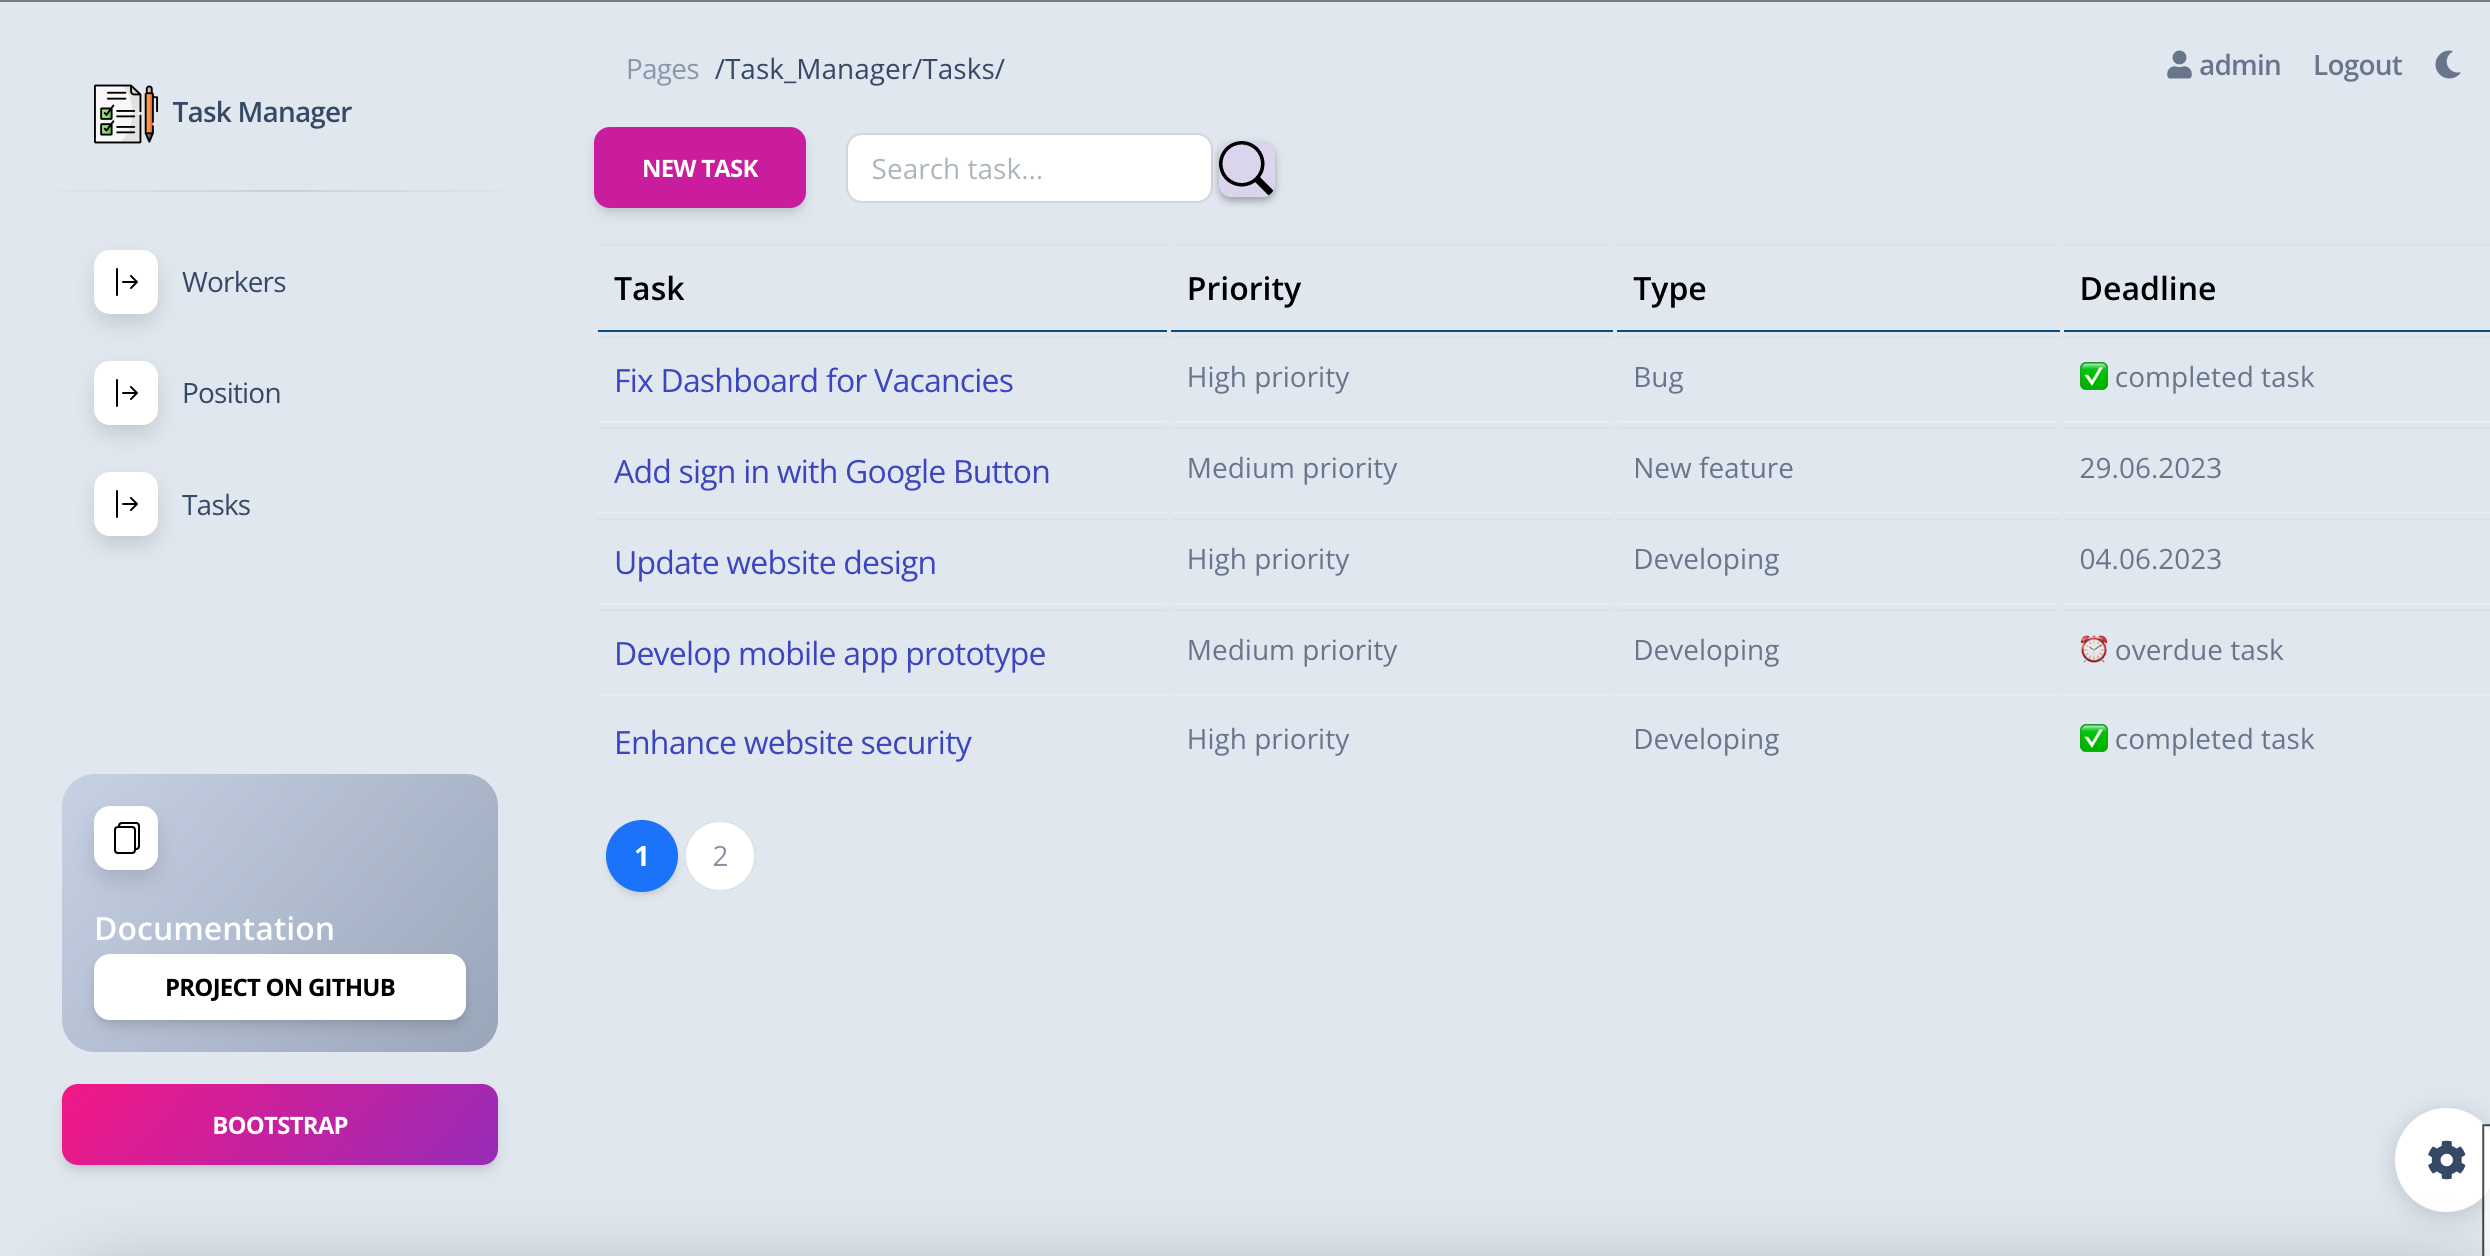
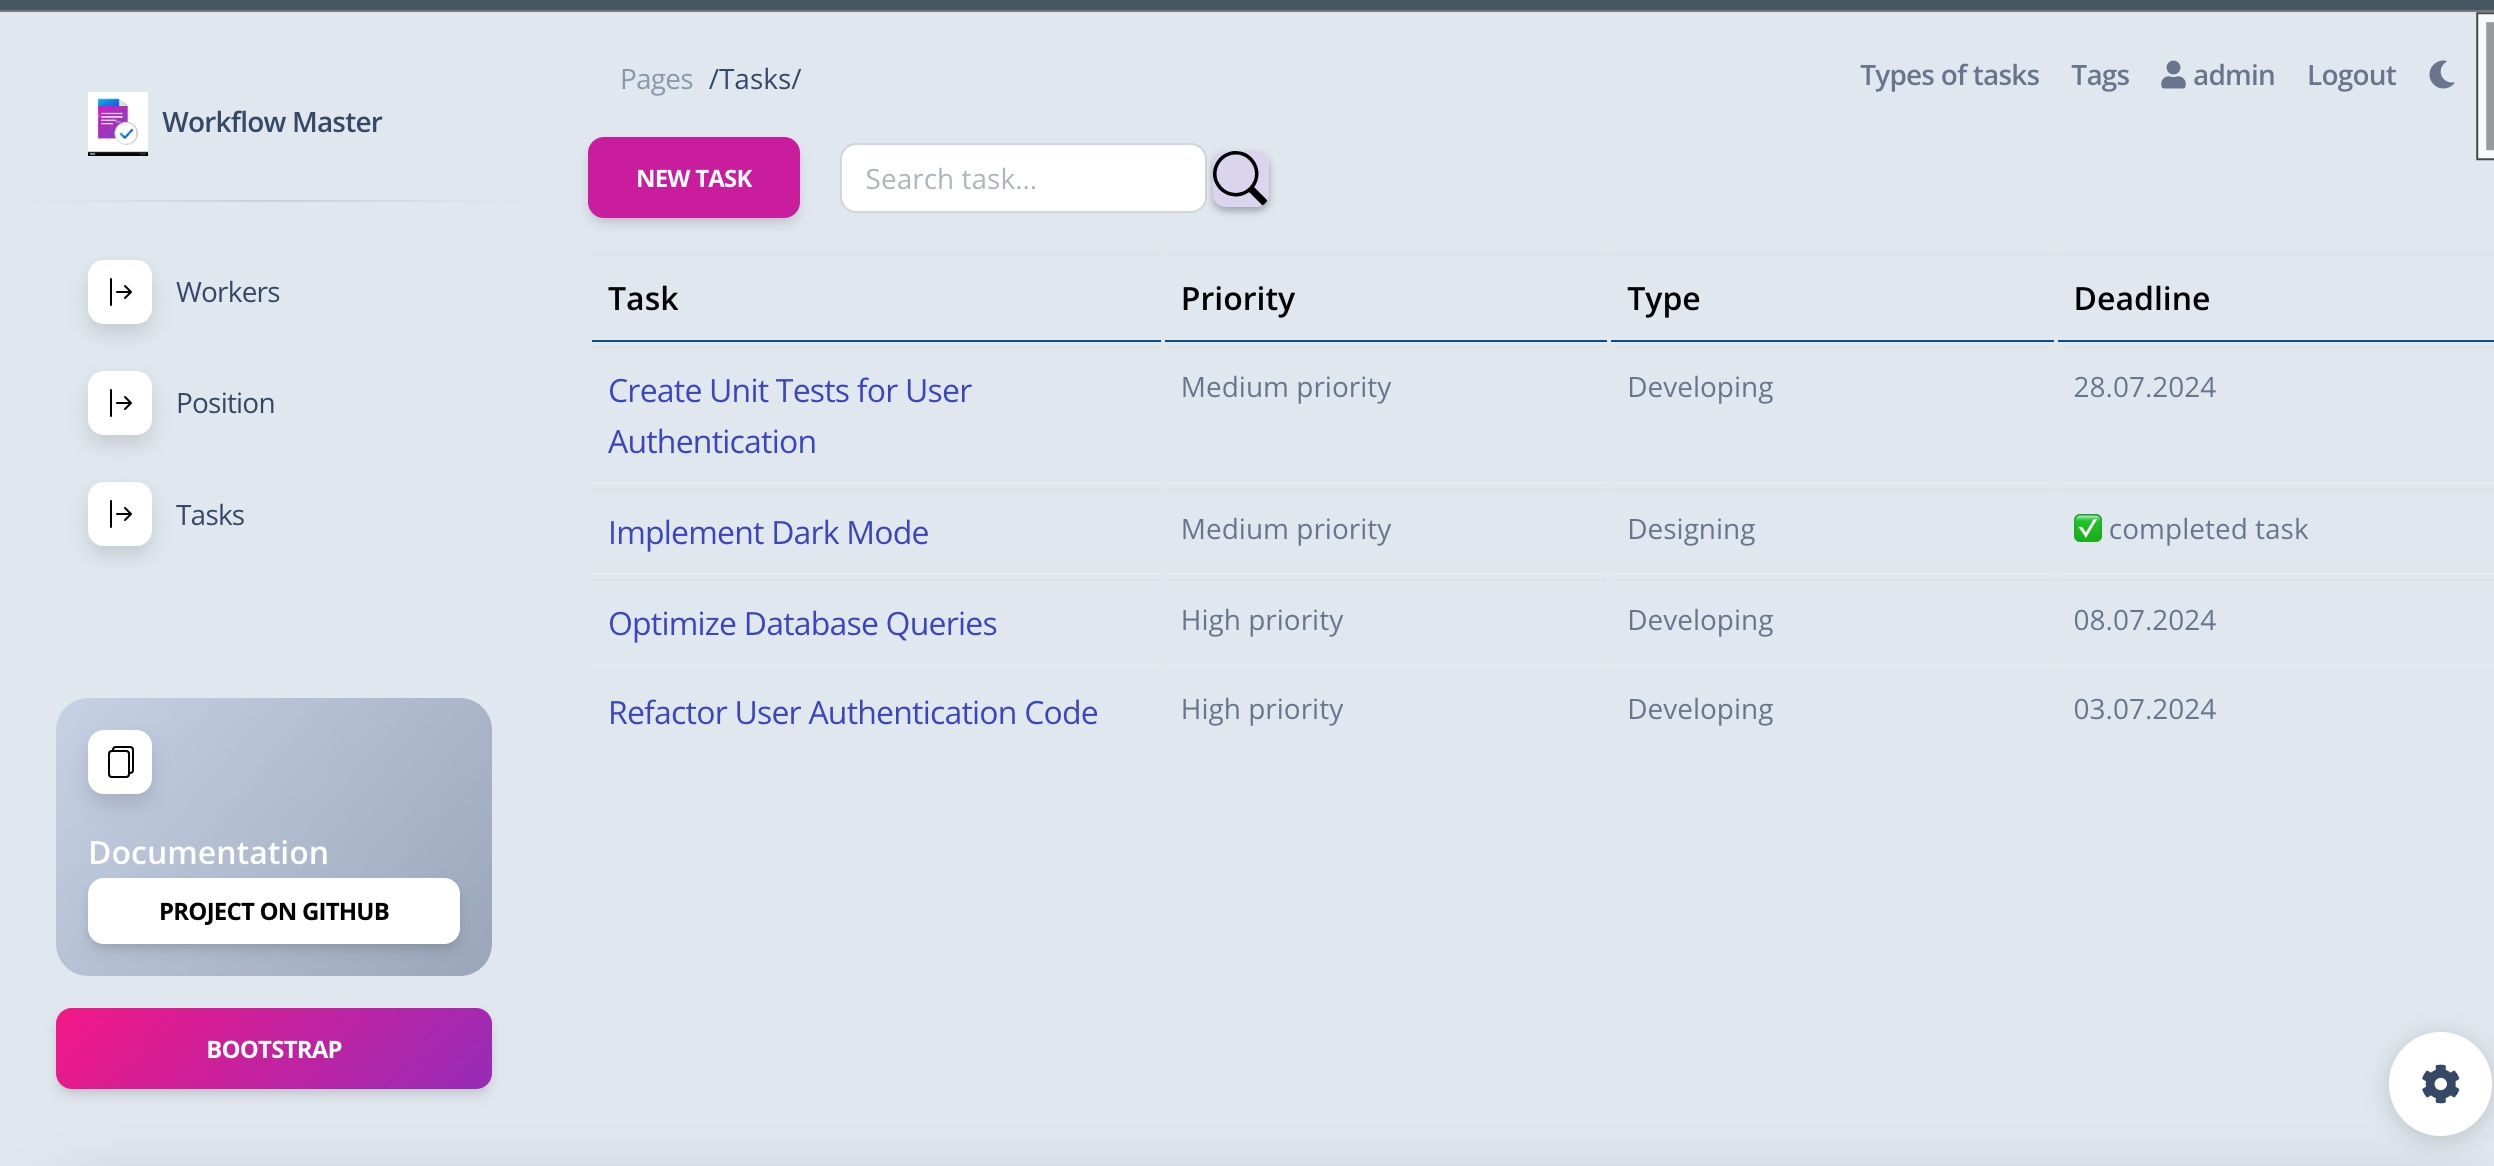
Fixed names in templates

diff --git a/templates/task_manager/index.html b/templates/task_manager/index.html
@@ -126,12 +126,12 @@
         <div class="card-header pb-0">
           <div class="row">
             <div class="col-lg-6 col-7">
-              <h6>Welcome to The Best Task Manager!</h6>
+              <h6>Welcome to The Best Workflow Master!</h6>
             </div>
 
             <div class="card-body px-0 pb-2">
               <div class="text-sm mb-0">
-                Our task management web application is designed to help you stay organized,
+                Our Workflow Master web application is designed to help you stay organized,
                 efficient, and on top of your daily tasks. Whether you're a busy professional,
                 a student juggling multiple assignments, or simply someone who wants to keep
                 track of their personal to-do list, our task manager has got you covered.

diff --git a/templates/includes/footer.html b/templates/includes/footer.html
@@ -3,7 +3,7 @@
           <div class="row align-items-center justify-content-lg-between">
             <div class="col-lg-6 mb-lg-0 mb-4">
               <div class="copyright text-center text-sm text-muted text-lg-start">
-                &copy; <a href="https://bit.ly/3fKQZaL" class="text-muted" target="_blank">IT Company</a> - coded by kleotan901.
+                &copy; <a href="https://bit.ly/3fKQZaL" class="text-muted" target="_blank">Workflow Master</a> - created by tetiana kozakova
               </div>
             </div>
             <div class="col-lg-6">

diff --git a/templates/includes/sidebar.html b/templates/includes/sidebar.html
@@ -5,7 +5,7 @@
     <i class="fas fa-times p-3 cursor-pointer text-secondary opacity-5 position-absolute end-0 top-0 d-none d-xl-none" aria-hidden="true" id="iconSidenav"></i>
     <a class="navbar-brand m-0" href="{% url 'task_manager:index' %}">
       <img src="{% static 'img/main_logo.jpg' %}" class="navbar-brand-img h-100" alt="main_logo">
-      <span class="ms-1 font-weight-bold">Task Manager</span>
+      <span class="ms-1 font-weight-bold">Workflow Master</span>
     </a>
   </div>
   <hr class="horizontal dark mt-0">

diff --git a/templates/includes/navigation.html b/templates/includes/navigation.html
@@ -6,7 +6,7 @@
       <ol class="breadcrumb bg-transparent mb-0 pb-0 pt-1 px-0 me-sm-6 me-5">
         <li class="breadcrumb-item text-sm"><a class="opacity-5 text-dark" href="javascript:;">Pages</a></li>
         <li class="text-sm text-dark active ms-2" aria-current="page">
-          {% if request.path == '/' %} / Task Manager {% else %} {{ request.path|title }} {% endif %}
+          {% if request.path == '/' %} / Workflow Master {% else %} {{ request.path|title }} {% endif %}
         </li>
       </ol>
     </nav>

diff --git a/templates/includes/navigation-login.html b/templates/includes/navigation-login.html
@@ -7,7 +7,7 @@
           <div class="nav-header">
             <a class="navbar-brand m-0" href="{% url 'task_manager:index' %}">
               <img src="{% static 'img/main_logo.jpg' %}" class="navbar-brand-img h-100" alt="main_logo">
-              <span class="ms-1 font-weight-bold">Task Manager</span>
+              <span class="ms-1 font-weight-bold">Workflow Master</span>
             </a>
           </div>
         </li>

diff --git a/templates/registration/login.html b/templates/registration/login.html
@@ -18,7 +18,7 @@
     <link href="{% static 'css/style_login.css' %}" rel="stylesheet" />
     <link id="pagestyle" href="{% static 'css/soft-ui-dashboard.css' %}" rel="stylesheet" />
 
-  <title>Task Manager</title>
+  <title>Workflow Master</title>
 </head>
 
 <body class="g-sidenav-show">

diff --git a/templates/layouts/base.html b/templates/layouts/base.html
@@ -5,7 +5,7 @@
 <head>
     <meta http-equiv="Content-Type" content="text/html; charset=utf-8"/>
     <title>
-      Task Manager - {% block title %}{% endblock %}
+      Workflow Master - {% block title %}{% endblock %}
     </title>
 
     <!-- Favicon -->
